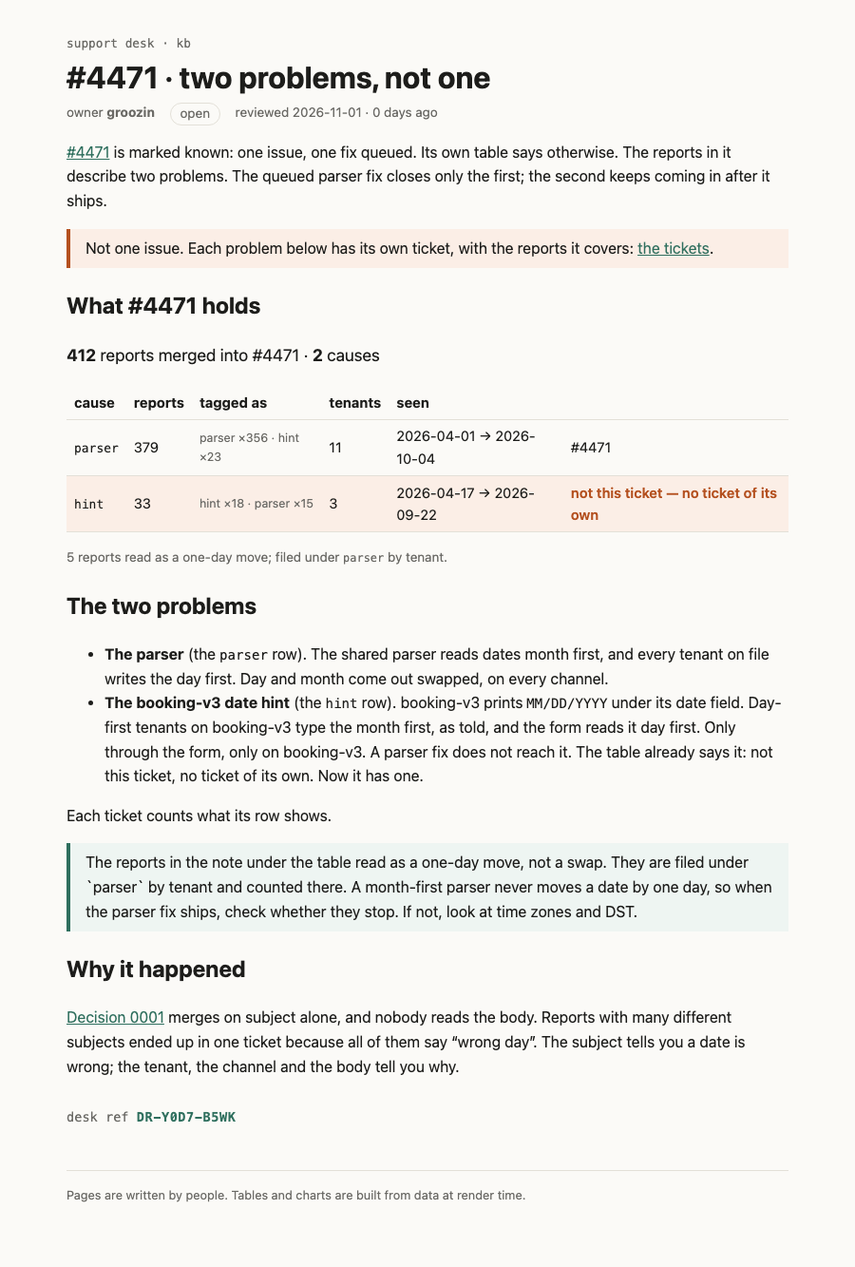
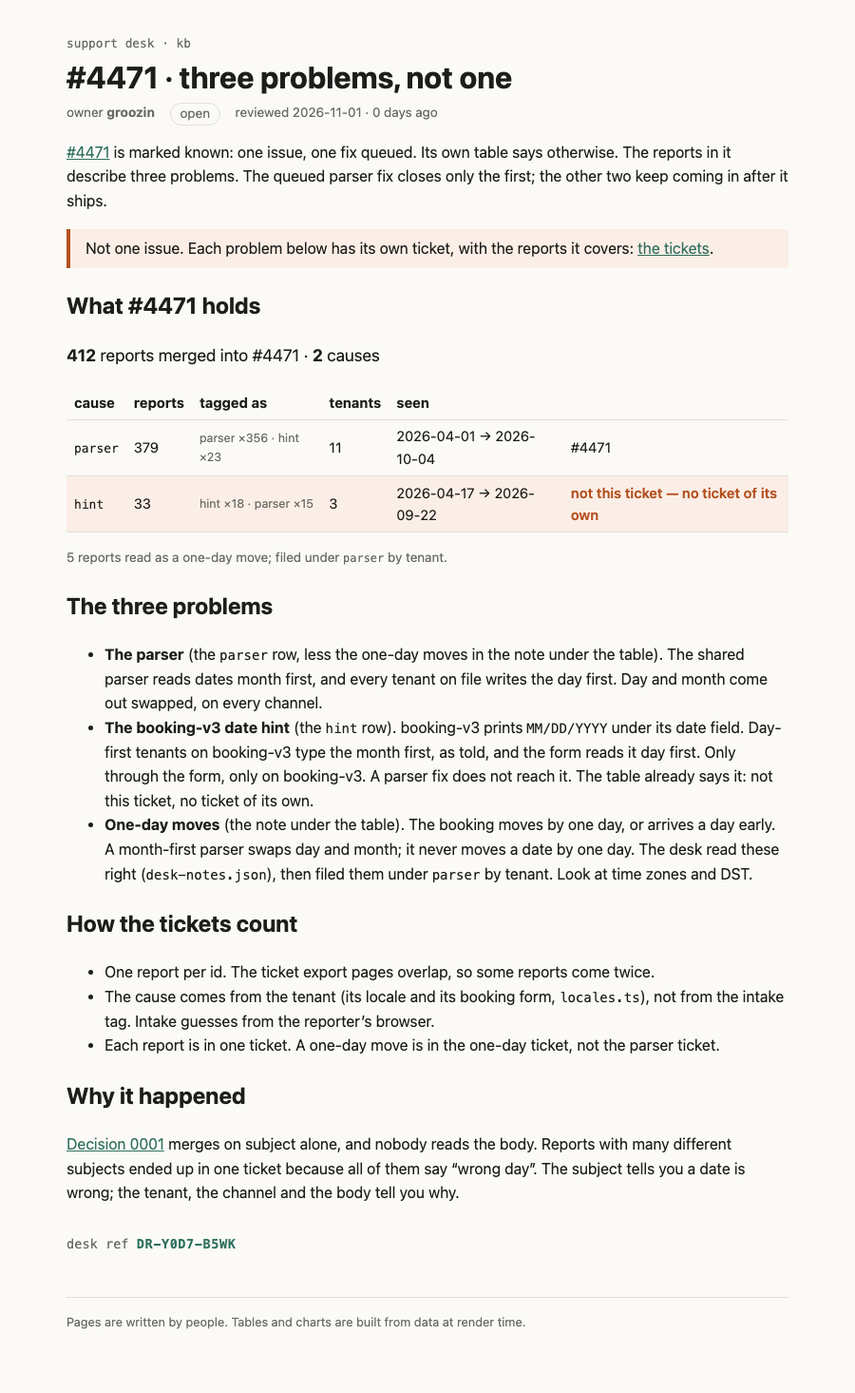
Back to three problems, one ticket each (374/33/5)

Changed region(s): [[0.0622, 0.0308, 0.9022, 0.892], [0.6533, 0.3076, 0.9022, 0.4306], [0.0622, 0.9227, 0.6222, 0.9535]]

diff --git a/build/kb/incidents/4471-problems.html b/build/kb/incidents/4471-problems.html
@@ -9,45 +9,47 @@
 		<link href="../../_app/immutable/chunks/CptVIHXj.js" rel="modulepreload">
 		<link href="../../_app/immutable/chunks/CHfFqfNT.js" rel="modulepreload">
 		<link href="../../_app/immutable/chunks/DQG8lHS1.js" rel="modulepreload">
-		<link href="../../_app/immutable/entry/app.Bqr7KKk_.js" rel="modulepreload">
+		<link href="../../_app/immutable/entry/app.BiFnqiQm.js" rel="modulepreload">
 		<link href="../../_app/immutable/nodes/0.Izv2btRW.js" rel="modulepreload">
 		<link href="../../_app/immutable/chunks/DK3Fl9T5.js" rel="modulepreload">
-		<link href="../../_app/immutable/nodes/5.yrDzhb2J.js" rel="modulepreload">
-		<link href="../../_app/immutable/chunks/B6bjh6N1.js" rel="modulepreload">
+		<link href="../../_app/immutable/nodes/5.DfGojtYJ.js" rel="modulepreload">
+		<link href="../../_app/immutable/chunks/Bc8CQffw.js" rel="modulepreload">
 		<link href="../../_app/immutable/chunks/DkoUumqI.js" rel="modulepreload">
 		<link href="../../_app/immutable/chunks/BevyIGF0.js" rel="modulepreload">
 		<link href="../../_app/immutable/chunks/DcZ9TEUN.js" rel="modulepreload">
-		<!--e2jw2j--><!----><title>#4471 · two problems, not one · support kb</title>
+		<!--e2jw2j--><!----><title>#4471 · three problems, not one · support kb</title>
 		<link href="../../_app/immutable/assets/runbook.COyw0cbZ.css" rel="stylesheet">
 		<link href="../../_app/immutable/assets/Callout.AbLv9dM_.css" rel="stylesheet">
 		<link href="../../_app/immutable/assets/CauseTable.DuKfINX_.css" rel="stylesheet">
 		<link href="../../_app/immutable/assets/_page.WePi3wDe.css" rel="stylesheet">
   </head>
   <body data-sveltekit-preload-data="hover">
-    <div style="display: contents"><!--[--><!--[--><!--[0--><!--[--><!--[--><!--[-1--><!--[--><div class="kb svelte-e2jw2j"><header><a class="crumb svelte-e2jw2j" href="/kb">support desk · kb</a> <h1 class="svelte-e2jw2j">#4471 · two problems, not one</h1> <p class="meta svelte-e2jw2j"><span>owner <b>groozin</b></span> <span class="status open svelte-e2jw2j">open</span> <span class="svelte-e2jw2j">reviewed 2026-11-01 · 0 days ago</span></p></header> <!--[-1--><!--]--> <main><p><a href="/kb/incidents/4471">#4471</a> is marked known: one issue, one fix queued. Its own table says otherwise.
-The reports in it describe two problems. The queued parser fix closes only the first; the second
-keeps coming in after it ships.</p> <aside class="warn svelte-17bri61"><!---->Not one issue. Each problem below has its own ticket, with the reports it covers: <a href="https://github.com/groozin/s01e03-what-it-shows/issues">the tickets</a>.<!----></aside><!----> <h2>What #4471 holds</h2> <p class="sum svelte-12oyimm"><strong>412</strong> reports merged into #4471 · <strong>2</strong> causes</p> <table><thead><tr><th>cause</th><th>reports</th><th>tagged as</th><th>tenants</th><th>seen</th><th></th></tr></thead><tbody><!--[--><tr class="svelte-12oyimm"><td class="svelte-12oyimm"><code>parser</code></td><td class="svelte-12oyimm">379</td><td class="tags svelte-12oyimm">parser ×356 · hint ×23</td><td class="svelte-12oyimm">11</td><td class="svelte-12oyimm">2026-04-01 → 2026-10-04</td><td class="svelte-12oyimm">#4471</td></tr><tr class="svelte-12oyimm wrong"><td class="svelte-12oyimm"><code>hint</code></td><td class="svelte-12oyimm">33</td><td class="tags svelte-12oyimm">hint ×18 · parser ×15</td><td class="svelte-12oyimm">3</td><td class="svelte-12oyimm">2026-04-17 → 2026-09-22</td><td class="svelte-12oyimm">not this ticket — no ticket of its own</td></tr><!--]--></tbody></table> <!--[--><!--[0--><p class="note svelte-12oyimm">5 reports read as a one-day move; filed under <code>parser</code> by tenant.</p><!--]--><!--[-1--><!--]--><!--]--><!----> <h2>The two problems</h2> <ul><li><strong>The parser</strong> (the <code>parser</code> row). The shared parser reads dates month first, and every tenant on
-file writes the day first. Day and month come out swapped, on every channel.</li> <li><strong>The booking-v3 date hint</strong> (the <code>hint</code> row). booking-v3 prints <code>MM/DD/YYYY</code> under its date field.
+    <div style="display: contents"><!--[--><!--[--><!--[0--><!--[--><!--[--><!--[-1--><!--[--><div class="kb svelte-e2jw2j"><header><a class="crumb svelte-e2jw2j" href="/kb">support desk · kb</a> <h1 class="svelte-e2jw2j">#4471 · three problems, not one</h1> <p class="meta svelte-e2jw2j"><span>owner <b>groozin</b></span> <span class="status open svelte-e2jw2j">open</span> <span class="svelte-e2jw2j">reviewed 2026-11-01 · 0 days ago</span></p></header> <!--[-1--><!--]--> <main><p><a href="/kb/incidents/4471">#4471</a> is marked known: one issue, one fix queued. Its own table says otherwise.
+The reports in it describe three problems. The queued parser fix closes only the first; the other two
+keep coming in after it ships.</p> <aside class="warn svelte-17bri61"><!---->Not one issue. Each problem below has its own ticket, with the reports it covers: <a href="https://github.com/groozin/s01e03-what-it-shows/issues">the tickets</a>.<!----></aside><!----> <h2>What #4471 holds</h2> <p class="sum svelte-12oyimm"><strong>412</strong> reports merged into #4471 · <strong>2</strong> causes</p> <table><thead><tr><th>cause</th><th>reports</th><th>tagged as</th><th>tenants</th><th>seen</th><th></th></tr></thead><tbody><!--[--><tr class="svelte-12oyimm"><td class="svelte-12oyimm"><code>parser</code></td><td class="svelte-12oyimm">379</td><td class="tags svelte-12oyimm">parser ×356 · hint ×23</td><td class="svelte-12oyimm">11</td><td class="svelte-12oyimm">2026-04-01 → 2026-10-04</td><td class="svelte-12oyimm">#4471</td></tr><tr class="svelte-12oyimm wrong"><td class="svelte-12oyimm"><code>hint</code></td><td class="svelte-12oyimm">33</td><td class="tags svelte-12oyimm">hint ×18 · parser ×15</td><td class="svelte-12oyimm">3</td><td class="svelte-12oyimm">2026-04-17 → 2026-09-22</td><td class="svelte-12oyimm">not this ticket — no ticket of its own</td></tr><!--]--></tbody></table> <!--[--><!--[0--><p class="note svelte-12oyimm">5 reports read as a one-day move; filed under <code>parser</code> by tenant.</p><!--]--><!--[-1--><!--]--><!--]--><!----> <h2>The three problems</h2> <ul><li><strong>The parser</strong> (the <code>parser</code> row, less the one-day moves in the note under the table). The shared
+parser reads dates month first, and every tenant on file writes the day first. Day and month come
+out swapped, on every channel.</li> <li><strong>The booking-v3 date hint</strong> (the <code>hint</code> row). booking-v3 prints <code>MM/DD/YYYY</code> under its date field.
 Day-first tenants on booking-v3 type the month first, as told, and the form reads it day first.
 Only through the form, only on booking-v3. A parser fix does not reach it. The table already says
-it: not this ticket, no ticket of its own. Now it has one.</li></ul> <p>Each ticket counts what its row shows.</p> <aside class="note svelte-17bri61"><!---->The reports in the note under the table read as a one-day move, not a swap. They are filed under
-`parser` by tenant and counted there. A month-first parser never moves a date by one day, so when the
-parser fix ships, check whether they stop. If not, look at time zones and DST.<!----></aside><!----> <h2>Why it happened</h2> <p><a href="/kb/decisions/0001-dedupe-by-subject">Decision 0001</a> merges on subject alone, and nobody reads the
+it: not this ticket, no ticket of its own.</li> <li><strong>One-day moves</strong> (the note under the table). The booking moves by one day, or arrives a day early.
+A month-first parser swaps day and month; it never moves a date by one day. The desk read these
+right (<code>desk-notes.json</code>), then filed them under <code>parser</code> by tenant. Look at time zones and DST.</li></ul> <h2>How the tickets count</h2> <ul><li>One report per id. The ticket export pages overlap, so some reports come twice.</li> <li>The cause comes from the tenant (its locale and its booking form, <code>locales.ts</code>), not from the
+intake tag. Intake guesses from the reporter’s browser.</li> <li>Each report is in one ticket. A one-day move is in the one-day ticket, not the parser ticket.</li></ul> <h2>Why it happened</h2> <p><a href="/kb/decisions/0001-dedupe-by-subject">Decision 0001</a> merges on subject alone, and nobody reads the
 body. Reports with many different subjects ended up in one ticket because all of them say “wrong day”.
 The subject tells you a date is wrong; the tenant, the channel and the body tell you why.</p> <!--[0--><p class="stamp svelte-1280m42">desk ref <b class="svelte-1280m42">DR-Y0D7-B5WK</b></p><!--]--><!----><!----></main> <footer class="svelte-e2jw2j">Pages are written by people. Tables and charts are built from data at render time.</footer></div><!--]--><!--]--><!--]--><!----><!--]--><!--]--><!--]--><!----> <!--[-1--><!--]--><!--]-->
 			
 			<script>
 				{
-					__sveltekit_1be8fjq = {
+					__sveltekit_lrj01k = {
 						base: new URL("../..", location).pathname.slice(0, -1),
-						version: "1793574290389"
+						version: "1793574554517"
 					};
 
 					const element = document.currentScript.parentElement;
 
 					import("../../_app/immutable/entry/start.D1HzdfF7.js").then(async (kit) => {
-						kit.init(__sveltekit_1be8fjq);
-						const app = await import("../../_app/immutable/entry/app.Bqr7KKk_.js");
+						kit.init(__sveltekit_lrj01k);
+						const app = await import("../../_app/immutable/entry/app.BiFnqiQm.js");
 						kit.start(app, element, {
 							node_ids: [0, 5],
 							data: [null,null],

diff --git a/build/kb.html b/build/kb.html
@@ -9,16 +9,16 @@
 		<link href="./_app/immutable/chunks/CptVIHXj.js" rel="modulepreload">
 		<link href="./_app/immutable/chunks/CHfFqfNT.js" rel="modulepreload">
 		<link href="./_app/immutable/chunks/DQG8lHS1.js" rel="modulepreload">
-		<link href="./_app/immutable/entry/app.Bqr7KKk_.js" rel="modulepreload">
+		<link href="./_app/immutable/entry/app.BiFnqiQm.js" rel="modulepreload">
 		<link href="./_app/immutable/nodes/0.Izv2btRW.js" rel="modulepreload">
 		<link href="./_app/immutable/chunks/DK3Fl9T5.js" rel="modulepreload">
-		<link href="./_app/immutable/nodes/2.Xtj9bmjO.js" rel="modulepreload">
+		<link href="./_app/immutable/nodes/2.BrYENizY.js" rel="modulepreload">
 		<link href="./_app/immutable/chunks/DkoUumqI.js" rel="modulepreload">
 		<link href="./_app/immutable/chunks/DCOWSXCS.js" rel="modulepreload">
 		<link href="./_app/immutable/chunks/tJYeXOJ9.js" rel="modulepreload">
 		<link href="./_app/immutable/chunks/BevyIGF0.js" rel="modulepreload">
 		<link href="./_app/immutable/chunks/DcZ9TEUN.js" rel="modulepreload">
-		<link href="./_app/immutable/chunks/B6bjh6N1.js" rel="modulepreload">
+		<link href="./_app/immutable/chunks/Bc8CQffw.js" rel="modulepreload">
 		<link href="./_app/immutable/chunks/Ce0JHbCm.js" rel="modulepreload">
 		<!--e2jw2j--><!----><title>Support knowledge base · support kb</title>
 		<link href="./_app/immutable/assets/runbook.COyw0cbZ.css" rel="stylesheet">
@@ -30,21 +30,21 @@
 		<link href="./_app/immutable/assets/2.Bt0MwIZg.css" rel="stylesheet">
   </head>
   <body data-sveltekit-preload-data="hover">
-    <div style="display: contents"><!--[--><!--[--><!--[0--><!--[--><!--[--><!--[-1--><!--[--><div class="kb svelte-e2jw2j"><header><a class="crumb svelte-e2jw2j" href="/kb">support desk · kb</a> <h1 class="svelte-e2jw2j">Support knowledge base</h1> <p class="meta svelte-e2jw2j"><span>owner <b>support desk</b></span> <span class="status living svelte-e2jw2j">living</span> <span class="svelte-e2jw2j">reviewed 2026-09-28 · 34 days ago</span></p></header> <!--[-1--><!--]--> <main><p>What the support desk knows, kept next to the code that knows it. One desk, every product: <code>sched-prod</code> (calendar invites for about 300k people) and the rest. When something breaks, the reports land here first.</p> <p>Start with <a href="/kb/triage/dedupe">triage</a> if you are new on the desk.</p> <h2>Pages</h2> <table><thead><tr><th>page</th><th>owner</th><th>status</th><th>reviewed</th></tr></thead><tbody><!--[--><tr><td><a href="/kb/decisions/0001-dedupe-by-subject">0001 · Duplicates share a subject line</a></td><td>rune</td><td>accepted</td><td class="svelte-tbc1ha stale">2024-06-11</td></tr><tr><td><a href="/kb/incidents/4471">#4471 · dates parse mm/dd in eu locales</a></td><td>support desk</td><td>known</td><td class="svelte-tbc1ha">2026-09-30</td></tr><tr><td><a href="/kb/incidents/4471-problems">#4471 · two problems, not one</a></td><td>groozin</td><td>open</td><td class="svelte-tbc1ha">2026-11-01</td></tr><tr><td><a href="/kb/triage/dedupe">Triage: duplicate reports</a></td><td>support desk</td><td>accepted</td><td class="svelte-tbc1ha stale">2024-06-11</td></tr><!--]--></tbody></table><!----> <h2>Writing a page</h2> <p>Keep the words here and the logic in <code>src/lib</code>. A number that can be computed should be
+    <div style="display: contents"><!--[--><!--[--><!--[0--><!--[--><!--[--><!--[-1--><!--[--><div class="kb svelte-e2jw2j"><header><a class="crumb svelte-e2jw2j" href="/kb">support desk · kb</a> <h1 class="svelte-e2jw2j">Support knowledge base</h1> <p class="meta svelte-e2jw2j"><span>owner <b>support desk</b></span> <span class="status living svelte-e2jw2j">living</span> <span class="svelte-e2jw2j">reviewed 2026-09-28 · 34 days ago</span></p></header> <!--[-1--><!--]--> <main><p>What the support desk knows, kept next to the code that knows it. One desk, every product: <code>sched-prod</code> (calendar invites for about 300k people) and the rest. When something breaks, the reports land here first.</p> <p>Start with <a href="/kb/triage/dedupe">triage</a> if you are new on the desk.</p> <h2>Pages</h2> <table><thead><tr><th>page</th><th>owner</th><th>status</th><th>reviewed</th></tr></thead><tbody><!--[--><tr><td><a href="/kb/decisions/0001-dedupe-by-subject">0001 · Duplicates share a subject line</a></td><td>rune</td><td>accepted</td><td class="svelte-tbc1ha stale">2024-06-11</td></tr><tr><td><a href="/kb/incidents/4471">#4471 · dates parse mm/dd in eu locales</a></td><td>support desk</td><td>known</td><td class="svelte-tbc1ha">2026-09-30</td></tr><tr><td><a href="/kb/incidents/4471-problems">#4471 · three problems, not one</a></td><td>groozin</td><td>open</td><td class="svelte-tbc1ha">2026-11-01</td></tr><tr><td><a href="/kb/triage/dedupe">Triage: duplicate reports</a></td><td>support desk</td><td>accepted</td><td class="svelte-tbc1ha stale">2024-06-11</td></tr><!--]--></tbody></table><!----> <h2>Writing a page</h2> <p>Keep the words here and the logic in <code>src/lib</code>. A number that can be computed should be
 computed by a component, not typed into a paragraph.</p><!----></main> <footer class="svelte-e2jw2j">Pages are written by people. Tables and charts are built from data at render time.</footer></div><!--]--><!--]--><!--]--><!----><!--]--><!--]--><!--]--><!----> <!--[-1--><!--]--><!--]-->
 			
 			<script>
 				{
-					__sveltekit_1be8fjq = {
+					__sveltekit_lrj01k = {
 						base: new URL(".", location).pathname.slice(0, -1),
-						version: "1793574290389"
+						version: "1793574554517"
 					};
 
 					const element = document.currentScript.parentElement;
 
 					import("./_app/immutable/entry/start.D1HzdfF7.js").then(async (kit) => {
-						kit.init(__sveltekit_1be8fjq);
-						const app = await import("./_app/immutable/entry/app.Bqr7KKk_.js");
+						kit.init(__sveltekit_lrj01k);
+						const app = await import("./_app/immutable/entry/app.BiFnqiQm.js");
 						kit.start(app, element, {
 							node_ids: [0, 2],
 							data: [null,null],

diff --git a/build/_app/immutable/chunks/Bc8CQffw.js b/build/_app/immutable/chunks/Bc8CQffw.js
@@ -1,0 +1,13 @@
+import{t as e}from"./DK3Fl9T5.js";import{E as t,F as n,H as r,I as i,K as a,L as o,N as s,R as c,S as l,T as u,U as d,W as f,_ as p,c as m,k as h,q as g,r as _,t as v,w as y}from"./CHfFqfNT.js";import{t as b}from"./DkoUumqI.js";import{t as x}from"./BevyIGF0.js";import{t as S}from"./DcZ9TEUN.js";var C=`0123456789ABCDEFGHJKMNPQRSTVWXYZ`;function w(e,t){let n=t>>>0;for(let t=0;t<e.length;t++)n^=e.charCodeAt(t),n=Math.imul(n,16777619)>>>0;return n}function T(e){let t=e.trim(),n=w(t,2166136261),r=w(t,2654435769),i=BigInt(n)<<8n|BigInt(r&255),a=``;for(let e=0;e<8;e++)a=C[Number(i&31n)]+a,i>>=5n;return`DR-${a.slice(0,4)}-${a.slice(4)}`}var E=t(`<p class="stamp svelte-1280m42">desk ref <b class="svelte-1280m42"> </b></p>`),D=t(`<p class="stamp missing svelte-1280m42">no desk ref: this page isn't signed (no <code>signature</code> in its frontmatter)</p>`);function O(e,t){f(t,!0);let a=r(()=>t.signature?T(t.signature):null);var m=u(),_=i(m),v=e=>{var t=E(),r=c(n(t)),i=o(r,!0);g(t),s(()=>l(i,h(a))),y(e,t)},b=e=>{var t=D();y(e,t)};p(_,e=>{h(a)?e(v):e(b,-1)}),y(e,m),d()}var k=e({default:()=>z,metadata:()=>A}),A={layout:`runbook`,title:`#4471 · three problems, not one`,owner:`groozin`,status:`open`,reviewed:`2026-11-01T00:00:00.000Z`,signature:`groozin`},{layout:j,title:M,owner:N,status:P,reviewed:F,signature:I}=A,L=t(`Not one issue. Each problem below has its own ticket, with the reports it covers: <a>the tickets</a>.`,1),R=t(`<p><a href="/kb/incidents/4471">#4471</a> is marked known: one issue, one fix queued. Its own table says otherwise.
+The reports in it describe three problems. The queued parser fix closes only the first; the other two
+keep coming in after it ships.</p> <!> <h2>What #4471 holds</h2> <!> <h2>The three problems</h2> <ul><li><strong>The parser</strong> (the <code>parser</code> row, less the one-day moves in the note under the table). The shared
+parser reads dates month first, and every tenant on file writes the day first. Day and month come
+out swapped, on every channel.</li> <li><strong>The booking-v3 date hint</strong> (the <code>hint</code> row). booking-v3 prints <code>MM/DD/YYYY</code> under its date field.
+Day-first tenants on booking-v3 type the month first, as told, and the form reads it day first.
+Only through the form, only on booking-v3. A parser fix does not reach it. The table already says
+it: not this ticket, no ticket of its own.</li> <li><strong>One-day moves</strong> (the note under the table). The booking moves by one day, or arrives a day early.
+A month-first parser swaps day and month; it never moves a date by one day. The desk read these
+right (<code>desk-notes.json</code>), then filed them under <code>parser</code> by tenant. Look at time zones and DST.</li></ul> <h2>How the tickets count</h2> <ul><li>One report per id. The ticket export pages overlap, so some reports come twice.</li> <li>The cause comes from the tenant (its locale and its booking form, <code>locales.ts</code>), not from the
+intake tag. Intake guesses from the reporter’s browser.</li> <li>Each report is in one ticket. A one-day move is in the one-day ticket, not the parser ticket.</li></ul> <h2>Why it happened</h2> <p><a href="/kb/decisions/0001-dedupe-by-subject">Decision 0001</a> merges on subject alone, and nobody reads the
+body. Reports with many different subjects ended up in one ticket because all of them say “wrong day”.
+The subject tells you a date is wrong; the tenant, the channel and the body tell you why.</p> <!>`,1);function z(e,t){let n=v(t,[`children`,`$$slots`,`$$events`,`$$legacy`]);b(e,_(()=>n,()=>A,{children:(e,t)=>{var n=R(),r=c(i(n),2);S(r,{kind:`warn`,children:(e,t)=>{a();var n=L(),r=c(i(n));m(r,`href`,`https://github.com/groozin/s01e03-what-it-shows/issues`),a(),y(e,n)},$$slots:{default:!0}});var o=c(r,4);x(o,{ticket:4471}),O(c(o,14),{get signature(){return I}}),y(e,n)},$$slots:{default:!0}}))}export{z as n,k as t};

diff --git a/build/_app/immutable/nodes/2.BrYENizY.js b/build/_app/immutable/nodes/2.BrYENizY.js
@@ -1,0 +1,2 @@
+import{E as e,F as t,I as n,K as r,L as i,N as a,R as o,S as s,U as c,W as l,c as u,d,h as f,i as p,k as m,q as h,r as g,t as _,w as v}from"../chunks/CHfFqfNT.js";import{n as y,r as b,t as x}from"../chunks/DkoUumqI.js";import{t as S}from"../chunks/DCOWSXCS.js";import{t as C}from"../chunks/tJYeXOJ9.js";import{t as w}from"../chunks/Bc8CQffw.js";import{t as T}from"../chunks/Ce0JHbCm.js";var E=e(`<tr><td><a> </a></td><td> </td><td> </td><td> </td></tr>`),D=e(`<table><thead><tr><th>page</th><th>owner</th><th>status</th><th>reviewed</th></tr></thead><tbody></tbody></table>`);function O(e,n){l(n,!1);let r=Object.entries(Object.assign({"/src/routes/kb/decisions/0001-dedupe-by-subject/+page.svx":S,"/src/routes/kb/incidents/4471/+page.svx":C,"/src/routes/kb/incidents/4471-problems/+page.svx":w,"/src/routes/kb/triage/dedupe/+page.svx":T})).map(([e,t])=>({href:e.replace(`/src/routes`,``).replace(`/+page.svx`,``),...t.metadata})).sort((e,t)=>e.href.localeCompare(t.href));p();var g=D(),_=o(t(g));f(_,5,()=>r,e=>e.href,(e,n)=>{var r=E(),c=t(r),l=t(c),f=i(l,!0);h(c);var p=o(c),g=i(p,!0),_=o(p),x=i(_,!0),S=o(_);let C;var w=i(S,!0);h(r),a((e,t)=>{u(l,`href`,m(n).href),s(f,m(n).title),s(g,m(n).owner),s(x,m(n).status),C=d(S,1,`svelte-tbc1ha`,null,C,{stale:e}),s(w,t)},[()=>y(m(n).reviewed)>180,()=>b(m(n).reviewed)]),v(e,r)}),h(_),h(g),v(e,g),c()}var k={layout:`runbook`,title:`Support knowledge base`,owner:`support desk`,status:`living`,reviewed:`2026-09-28T00:00:00.000Z`},{layout:A,title:j,owner:M,status:N,reviewed:P}=k,F=e(`<p>What the support desk knows, kept next to the code that knows it. One desk, every product: <code>sched-prod</code> (calendar invites for about 300k people) and the rest. When something breaks, the reports land here first.</p> <p>Start with <a href="/kb/triage/dedupe">triage</a> if you are new on the desk.</p> <h2>Pages</h2> <!> <h2>Writing a page</h2> <p>Keep the words here and the logic in <code>src/lib</code>. A number that can be computed should be
+computed by a component, not typed into a paragraph.</p>`,1);function I(e,t){let i=_(t,[`children`,`$$slots`,`$$events`,`$$legacy`]);x(e,g(()=>i,()=>k,{children:(e,t)=>{var i=F();O(o(n(i),6),{}),r(4),v(e,i)},$$slots:{default:!0}}))}export{I as component};

diff --git a/build/_app/immutable/entry/app.BiFnqiQm.js b/build/_app/immutable/entry/app.BiFnqiQm.js
@@ -1,0 +1,2 @@
+const __vite__mapDeps=(i,m=__vite__mapDeps,d=(m.f||(m.f=["../nodes/0.Izv2btRW.js","../chunks/DK3Fl9T5.js","../chunks/CHfFqfNT.js","../nodes/1.xQrPtl8H.js","../chunks/DQG8lHS1.js","./payload.DSmR2FwN.js","../nodes/2.BrYENizY.js","../chunks/DkoUumqI.js","../assets/runbook.COyw0cbZ.css","../chunks/DCOWSXCS.js","../chunks/tJYeXOJ9.js","../chunks/BevyIGF0.js","../chunks/DcZ9TEUN.js","../assets/Callout.AbLv9dM_.css","../assets/CauseTable.DuKfINX_.css","../assets/_page.BwRNheVv.css","../chunks/Bc8CQffw.js","../assets/_page.WePi3wDe.css","../chunks/Ce0JHbCm.js","../assets/_page.DO6Yid7X.css","../assets/2.Bt0MwIZg.css","../nodes/3.utlB90Ku.js","../nodes/4.IwKlRL78.js","../nodes/5.DfGojtYJ.js","../nodes/6.BZRQ87Zk.js"])))=>i.map(i=>d[i]);
+import{t as e}from"../chunks/CRzLMJPS.js";var t={},n=[()=>e(()=>import(`../nodes/0.Izv2btRW.js`),__vite__mapDeps([0,1,2]),import.meta.url),()=>e(()=>import(`../nodes/1.xQrPtl8H.js`),__vite__mapDeps([3,2,4,5]),import.meta.url),()=>e(()=>import(`../nodes/2.BrYENizY.js`),__vite__mapDeps([6,2,7,8,9,1,10,11,12,13,14,15,16,17,18,19,20]),import.meta.url),()=>e(()=>import(`../nodes/3.utlB90Ku.js`),__vite__mapDeps([21,9,1,2,7,8]),import.meta.url),()=>e(()=>import(`../nodes/4.IwKlRL78.js`),__vite__mapDeps([22,10,1,2,7,8,11,12,13,14,15]),import.meta.url),()=>e(()=>import(`../nodes/5.DfGojtYJ.js`),__vite__mapDeps([23,16,1,2,7,8,11,12,13,14,17]),import.meta.url),()=>e(()=>import(`../nodes/6.BZRQ87Zk.js`),__vite__mapDeps([24,18,1,2,7,8,12,13,19]),import.meta.url)],r=[],i={"/kb":[2],"/kb/decisions/0001-dedupe-by-subject":[3],"/kb/incidents/4471-problems":[5],"/kb/incidents/4471":[4],"/kb/triage/dedupe":[6]},a={handleError:(({kind:e,error:t})=>{e===`unknown`&&console.error(t)}),reroute:(()=>{}),transport:{}},o=Object.fromEntries(Object.entries(a.transport).map(([e,t])=>[e,t.decode])),s=Object.fromEntries(Object.entries(a.transport).map(([e,t])=>[e,t.encode])),c=!1,l=(e,t)=>o[e](t),u=()=>e(()=>import(`../chunks/Bjy-W4x2.js`).then(e=>e.default),[],import.meta.url);export{l as decode,o as decoders,i as dictionary,s as encoders,u as get_error_template,c as hash,a as hooks,t as matchers,n as nodes,r as server_loads};

diff --git a/build/kb/decisions/0001-dedupe-by-subject.html b/build/kb/decisions/0001-dedupe-by-subject.html
@@ -9,7 +9,7 @@
 		<link href="../../_app/immutable/chunks/CptVIHXj.js" rel="modulepreload">
 		<link href="../../_app/immutable/chunks/CHfFqfNT.js" rel="modulepreload">
 		<link href="../../_app/immutable/chunks/DQG8lHS1.js" rel="modulepreload">
-		<link href="../../_app/immutable/entry/app.Bqr7KKk_.js" rel="modulepreload">
+		<link href="../../_app/immutable/entry/app.BiFnqiQm.js" rel="modulepreload">
 		<link href="../../_app/immutable/nodes/0.Izv2btRW.js" rel="modulepreload">
 		<link href="../../_app/immutable/chunks/DK3Fl9T5.js" rel="modulepreload">
 		<link href="../../_app/immutable/nodes/3.utlB90Ku.js" rel="modulepreload">
@@ -26,16 +26,16 @@ engineering merges them later.</li></ul><!----></main> <footer class="svelte-e2j
 			
 			<script>
 				{
-					__sveltekit_1be8fjq = {
+					__sveltekit_lrj01k = {
 						base: new URL("../..", location).pathname.slice(0, -1),
-						version: "1793574290389"
+						version: "1793574554517"
 					};
 
 					const element = document.currentScript.parentElement;
 
 					import("../../_app/immutable/entry/start.D1HzdfF7.js").then(async (kit) => {
-						kit.init(__sveltekit_1be8fjq);
-						const app = await import("../../_app/immutable/entry/app.Bqr7KKk_.js");
+						kit.init(__sveltekit_lrj01k);
+						const app = await import("../../_app/immutable/entry/app.BiFnqiQm.js");
 						kit.start(app, element, {
 							node_ids: [0, 3],
 							data: [null,null],

diff --git a/build/kb/incidents/4471.html b/build/kb/incidents/4471.html
@@ -9,7 +9,7 @@
 		<link href="../../_app/immutable/chunks/CptVIHXj.js" rel="modulepreload">
 		<link href="../../_app/immutable/chunks/CHfFqfNT.js" rel="modulepreload">
 		<link href="../../_app/immutable/chunks/DQG8lHS1.js" rel="modulepreload">
-		<link href="../../_app/immutable/entry/app.Bqr7KKk_.js" rel="modulepreload">
+		<link href="../../_app/immutable/entry/app.BiFnqiQm.js" rel="modulepreload">
 		<link href="../../_app/immutable/nodes/0.Izv2btRW.js" rel="modulepreload">
 		<link href="../../_app/immutable/chunks/DK3Fl9T5.js" rel="modulepreload">
 		<link href="../../_app/immutable/nodes/4.IwKlRL78.js" rel="modulepreload">
@@ -30,16 +30,16 @@ first. The fix is queued.</p> <aside class="note svelte-17bri61"><!---->Known. O
 			
 			<script>
 				{
-					__sveltekit_1be8fjq = {
+					__sveltekit_lrj01k = {
 						base: new URL("../..", location).pathname.slice(0, -1),
-						version: "1793574290389"
+						version: "1793574554517"
 					};
 
 					const element = document.currentScript.parentElement;
 
 					import("../../_app/immutable/entry/start.D1HzdfF7.js").then(async (kit) => {
-						kit.init(__sveltekit_1be8fjq);
-						const app = await import("../../_app/immutable/entry/app.Bqr7KKk_.js");
+						kit.init(__sveltekit_lrj01k);
+						const app = await import("../../_app/immutable/entry/app.BiFnqiQm.js");
 						kit.start(app, element, {
 							node_ids: [0, 4],
 							data: [null,null],

diff --git a/build/kb/triage/dedupe.html b/build/kb/triage/dedupe.html
@@ -9,7 +9,7 @@
 		<link href="../../_app/immutable/chunks/CptVIHXj.js" rel="modulepreload">
 		<link href="../../_app/immutable/chunks/CHfFqfNT.js" rel="modulepreload">
 		<link href="../../_app/immutable/chunks/DQG8lHS1.js" rel="modulepreload">
-		<link href="../../_app/immutable/entry/app.Bqr7KKk_.js" rel="modulepreload">
+		<link href="../../_app/immutable/entry/app.BiFnqiQm.js" rel="modulepreload">
 		<link href="../../_app/immutable/nodes/0.Izv2btRW.js" rel="modulepreload">
 		<link href="../../_app/immutable/chunks/DK3Fl9T5.js" rel="modulepreload">
 		<link href="../../_app/immutable/nodes/6.BZRQ87Zk.js" rel="modulepreload">
@@ -29,16 +29,16 @@ anything else.<!----></aside><!----> <h2>Try it</h2> <div class="try svelte-gq0h
 			
 			<script>
 				{
-					__sveltekit_1be8fjq = {
+					__sveltekit_lrj01k = {
 						base: new URL("../..", location).pathname.slice(0, -1),
-						version: "1793574290389"
+						version: "1793574554517"
 					};
 
 					const element = document.currentScript.parentElement;
 
 					import("../../_app/immutable/entry/start.D1HzdfF7.js").then(async (kit) => {
-						kit.init(__sveltekit_1be8fjq);
-						const app = await import("../../_app/immutable/entry/app.Bqr7KKk_.js");
+						kit.init(__sveltekit_lrj01k);
+						const app = await import("../../_app/immutable/entry/app.BiFnqiQm.js");
 						kit.start(app, element, {
 							node_ids: [0, 6],
 							data: [null,null],

diff --git a/build/_app/immutable/nodes/5.DfGojtYJ.js b/build/_app/immutable/nodes/5.DfGojtYJ.js
@@ -1,0 +1,1 @@
+export{n as component}from"../chunks/Bc8CQffw.js";

diff --git a/README.md b/README.md
@@ -37,7 +37,7 @@ Exported 2026-10-04 from the `support` repo, `apps/kb/` → `src/`.
 
 ## Added after the export
 
-- `src/routes/kb/incidents/4471-problems/+page.svx`: the two problems inside #4471, one ticket each
+- `src/routes/kb/incidents/4471-problems/+page.svx`: the problems inside #4471, one ticket each
   ([issues](https://github.com/groozin/s01e03-what-it-shows/issues)). Signed `groozin`. It uses only
   the components in the export.
 - `build/`: the kb rendered as the desk sees it (`npm install && npm run build`).
